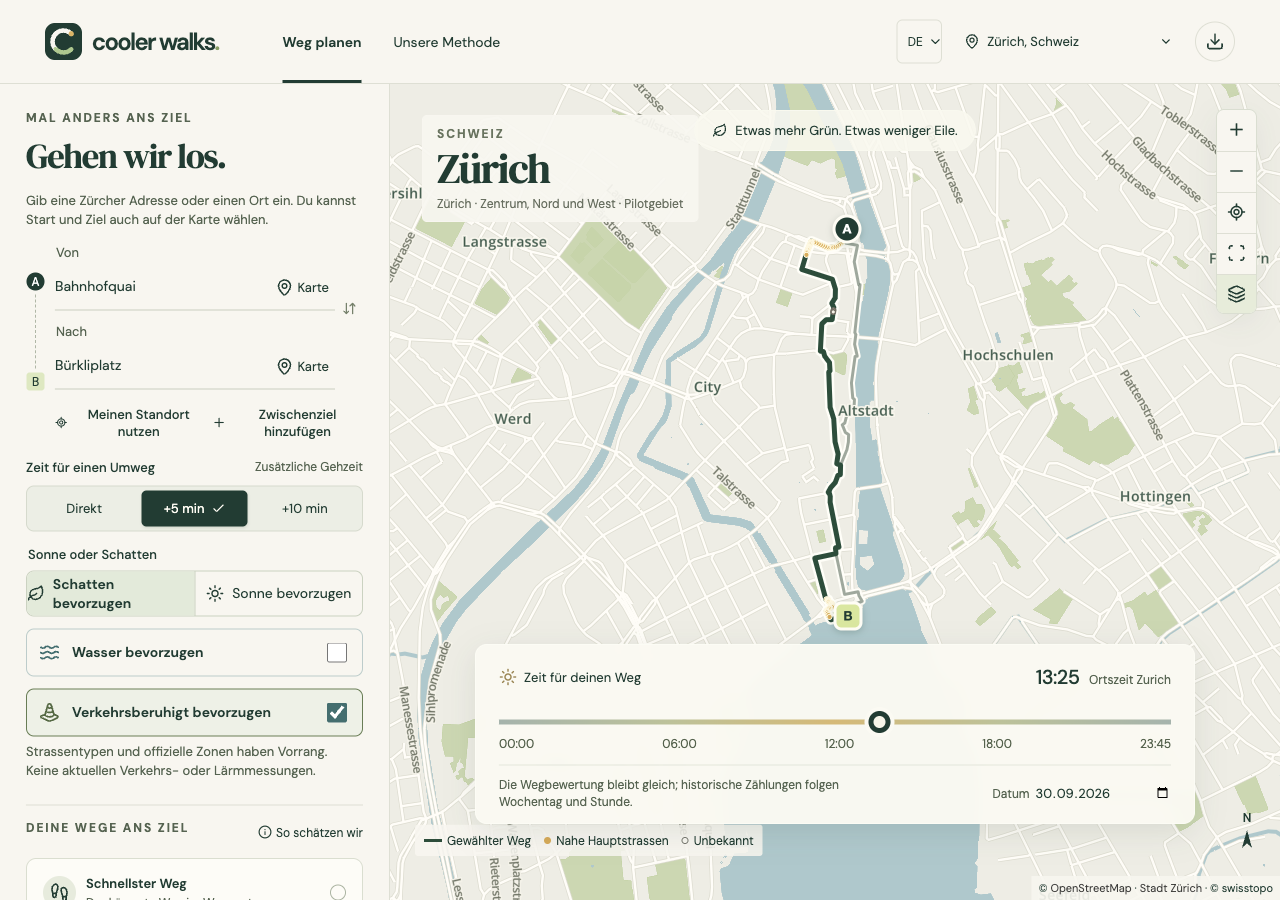
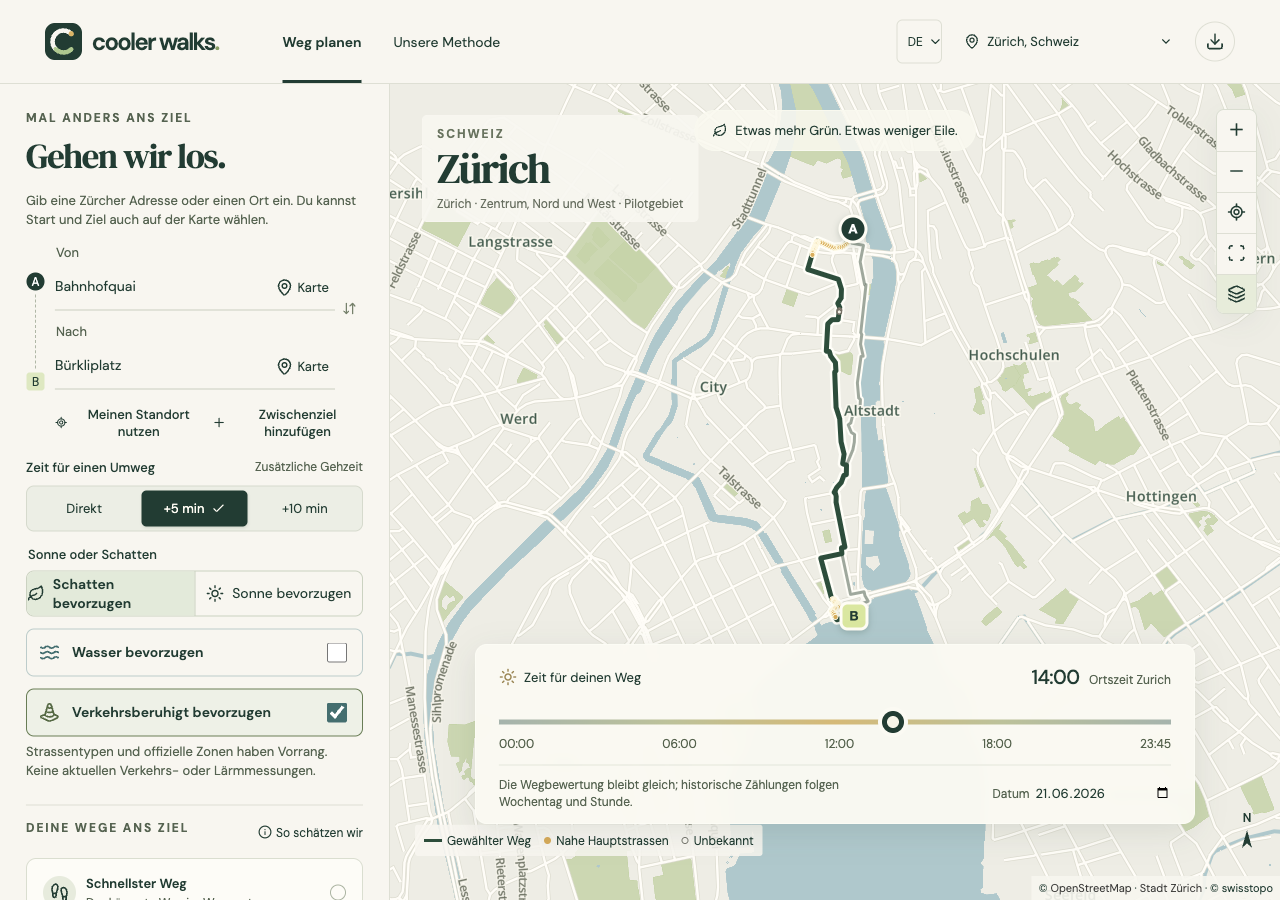
Record verified arrival-time shadow release and stable PWA reference [skip ci]

diff --git a/docs/platform.md b/docs/platform.md
@@ -142,3 +142,11 @@ The model is `flat-buildings-arrival-v6`. Type checking and 72 unit/model/langua
 Production compilation and all five existing pack hashes pass. The new browser flow verifies city-local arrival times, model explanations, German phone layout, the 20:00 low-sun transition and recovery to the 14:00 shade comparison. Actual desktop, phone and tablet captures were inspected. All 18 local browser scenarios and all four local production-page scenarios pass, including accessibility, enlarged text, security policy and offline public pages. Prior 0.8 reports are archived in `docs/releases/0.8.0-*.json`.
 
[1 lines of base64/hex data omitted]
+
+The public `2f662eb` build passes the arrival-time scenario and all four release-browser scenarios. Chrome 154.0.8037.92 installed 0.9.0 from **https://coolerwalks.ch**, launched standalone and verified arrival-aware shade, German official-address routes, historical counters, downloaded-area cold reopening, offline water/stops and recovery after an unvisited city fails offline. Manifest/installability and page errors are empty. [PWA report](pwa-validation.json). The installed address/map and final phone captures were inspected.
+
+The first PWA run expected a particular waterside/stop alternative at the current September time, when it did not qualify. Its test now fixes the June 21, 14:00 Zurich reference used by the browser route regression. The full flow passed with the same assertions and timeouts; application coverage rules were not changed.
+
+[Android APK/unsigned App Bundle](https://github.com/gumbrich/cooler-walks/actions/runs/36716054436) and [iOS simulator/unsigned archive](https://github.com/gumbrich/cooler-walks/actions/runs/36716054463) CI builds pass for published source `2f662eb`. Current iOS interactions and physical phones were not tested.
+
+The [complete Linux workflow](https://github.com/gumbrich/cooler-walks/actions/runs/36716054350) passes fresh installation, 72 unit/model/language checks, five Python source checks, all real graph/route audits including arrival-time comparisons, formatting, production compilation and all 18 browser scenarios across four isolated jobs. [CI evidence](releases/0.9.0-ci.json). The subsequent verification commit changes reports, screenshots and the PWA test reference clock only; application code remains the published `2f662eb` source.

diff --git a/docs/hosting.md b/docs/hosting.md
@@ -131,3 +131,13 @@ A release follow-up separates service-worker interface installation from visited
 The final map refinement is published from `f6e1bbef14ca50df2e8ffef5f223cfa866308a36`. City-scale rendering now keeps neighbourhoods, the street network, parks and waterways, adding buildings, trees and minor paths at street scale. Both live Zurich address/map flows pass on this exact build (53.3 seconds total); the whole-area overview settled in 1,736 ms in the tested desktop Chrome session. This is a test-machine observation, not a mobile-performance guarantee. [Final script/service-worker provenance](releases/0.8.0-final-host.json) confirms the map catalogue is unchanged.
 
 Final acceptance is complete: [all Linux checks and 17 browser scenarios](https://github.com/gumbrich/cooler-walks/actions/runs/36707730409), both native CI builds, and a fresh public-origin Chrome PWA installation/standalone/offline run pass on `f6e1bbe`. The PWA report is dated 2026-09-30T11:25:25Z with no manifest, installability or page errors. [CI evidence](releases/0.8.0-ci.json) and [platform scope](platform.md) retain exact versions and untested device limitations.
+
+## Version 0.9.0 release — 30 September 2026
+
+Published source `2f662ebc0aee94e644d42ffd301d6a809672a62f` updates building shadows to the expected arrival at each route sample, with English/German arrival labels and honest low-sun/night transitions. The deployed routing worker matches the locally tested production build byte-for-byte. [Deployment provenance](releases/0.9.0-host.json).
+
+The public route scenario passes arrival times for both alternatives, English/German phone layouts, the low-sun transition and recovery to a shade comparison. All six public pages, true 404s, security/cache headers, both manifests and every hosted pack checksum/native CORS check pass. Pack files and embedded hashes match the [0.8 catalogue](releases/0.8.0-hosted-catalog.json); the previous decompressed-source comparisons therefore remain applicable. Existing offline packs do not need a new download for this model update. Hosting, DNS and account settings are unchanged.
+
+All four live release-browser scenarios pass, including production CSP, accessibility/200% text, English/German pages without JavaScript and offline privacy navigation. Chrome installed and launched the public PWA and passed offline arrival-time shade and address planning, with no manifest, installability or page errors. Android and iOS CI packaging passed. [Platform scope](platform.md) and [PWA report](pwa-validation.json).
+
+Final acceptance includes the complete [Linux workflow with all 18 browser scenarios](https://github.com/gumbrich/cooler-walks/actions/runs/36716054350) and both native CI builds. [CI evidence](releases/0.9.0-ci.json) records the published revision. No physical-phone or field-shadow accuracy validation is implied.

diff --git a/docs/progress.md b/docs/progress.md
@@ -4,7 +4,7 @@
 
 Implemented `flat-buildings-arrival-v6`: every candidate uses solar position at each sample's expected arrival, including all legs through stops and repeated paths. The static footprint index supports changing rays without duplicating city geometry. Estimated arrival times appear in English/German. Low sun, missing geometry and night stay distinct; a detour cannot win merely by reaching darkness. Source data, traffic and city coverage are unchanged. Candidate generation still uses departure-time exposure; final filtering and ranking use each candidate's arrival-time exposure.
 
-Local validation: 72 unit/model/language checks pass, including eight new timing/geometry/DST cases. Real-route checks pass across all four pilots. The new [arrival audit](arrival-shade-validation.json) compares the same geometry at departure versus arrival. At 14:00 on 21 June, 48 m of the 1,511 m Zurich reference changes exposure class; this is a computed difference, not field validation. All 18 browser scenarios, four production-page scenarios, the production build and all five pack checksums pass locally. Android 0.9.0/build 7 passes the focused offline arrival/address/count/language/city flow on the existing 2 GB emulator, with no page errors. Public deployment, CI and installed-PWA checks are next.
+Local validation: 72 unit/model/language checks pass, including eight new timing/geometry/DST cases. Real-route checks pass across all four pilots. The new [arrival audit](arrival-shade-validation.json) compares the same geometry at departure versus arrival. At 14:00 on 21 June, 48 m of the 1,511 m Zurich reference changes exposure class; this is a computed difference, not field validation. All 18 browser scenarios, four production-page scenarios, the production build and all five pack checksums pass locally. Android 0.9.0/build 7 passes the focused offline arrival/address/count/language/city flow on the existing 2 GB emulator, with no page errors. Published to **https://coolerwalks.ch/** from `2f662eb`. The live arrival-time flow, all four live production-page scenarios and all five hosted pack checksums pass. Chrome installed the public PWA, launched standalone and verified offline arrival-time shade/address planning with no page errors. The complete [Linux workflow](https://github.com/gumbrich/cooler-walks/actions/runs/36716054350), including all 18 browser scenarios, and both Android/iOS CI builds pass. [Release evidence](releases/0.9.0-ci.json) and [platform scope](platform.md) record exact checks and limitations.
 
 ## Previous milestone: Zurich north and west · 0.8.0
 

diff --git a/docs/mobile.md b/docs/mobile.md
@@ -50,7 +50,7 @@ See [Capacitor’s environment requirements](https://capacitorjs.com/docs/gettin
 
 Shared TypeScript, routing, real-data and browser checks cover the planner. Native verification results and platform limitations are recorded in [platform.md](platform.md). Browser viewport screenshots do not count as native-device tests.
 
-Version 0.8.0/build 6 packages the 57.77 km² Zurich map and official address index. Worker-owned geometry loading, viewport tree rendering and explicit navigation cleanup address the larger model’s Android memory pressure. `npm run test:native:counts` now also verifies address search and routing offline, alongside a fixed Monday 14:00 count reference, German text and beta city-switch cleanup on the dedicated emulator. These checks pass with zero page errors; the current report is `docs/native-counts-validation.json` and the tested APK is `native-artifacts/cooler-walks-0.8.0-debug.apk` locally. Physical phones and current iOS interactions remain untested.
+Version 0.8.0/build 6 packages the 57.77 km² Zurich map and official address index. Worker-owned geometry loading, viewport tree rendering and explicit navigation cleanup address the larger model’s Android memory pressure. `npm run test:native:counts` now also verifies address search and routing offline, alongside a fixed Monday 14:00 count reference, German text and beta city-switch cleanup on the dedicated emulator. These checks pass with zero page errors; the archived report is `docs/releases/0.8.0-native-counts-validation.json` and the tested APK is `native-artifacts/cooler-walks-0.8.0-debug.apk` locally. Physical phones and current iOS interactions remain untested.
 
 The Android build workflow uploads a debug APK as a private GitHub Actions artifact (retained for 14 days). It builds `:app:assembleDebug`, not every dependency's distributable library. Local builds use the same target. This is a development-signed APK, not a signed production release.
 

diff --git a/docs/model.md b/docs/model.md
@@ -59,6 +59,6 @@ Up to **three intermediate stops** are visited in the specified order. Each stop
 
 ## Verification and remaining work
 
-Focused tests check LV95 against the official Bern origin, a Paris UTM round-trip, unit conversion, DST, Melbourne local time and solar orientation, polar night, shadow direction and length, an analytic 10 m block at 45°, courtyard openings, graph access, disconnected routes, detours and missing coverage. `docs/route-validation.json` records a real Zurich route at several times.
+Focused tests check LV95 against the official Bern origin, a Paris UTM round-trip, unit conversion, DST, Melbourne local time and solar orientation, polar night, shadow direction and length, an analytic 10 m block at 45°, courtyard openings, graph access, disconnected routes, detours and missing coverage. Arrival-specific checks use an analytic wall with a controlled changing sun, verify repeated/reversed paths through stops, arrival-dependent boundary clearance, sunrise/sunset transitions, and reject a tempting shade detour that enters darkness. Midnight and DST label checks keep route time separate from device time. `docs/route-validation.json` records a real Zurich route at several times; `docs/arrival-shade-validation.json` compares exact sample positions at departure versus arrival in Zurich and Munich.
 
 Analytic geometry checks are independent physical reference cases; they are not validation against real dated Zurich shadows. Before expanding or removing the experimental label: field-check paths, compare timestamped observations, add terrain-aware reference cases, audit tagged pedestrian restrictions and snapping near barriers, and evaluate route-side geometry. Historical geometry and source network freshness remain material limits.

diff --git a/README.md b/README.md
@@ -78,7 +78,7 @@ npm run native:open:ios      # open Xcode
 
 Detailed setup, signing boundaries and offline behaviour are in [docs/mobile.md](docs/mobile.md). Actual platform test results are in [docs/platform.md](docs/platform.md). Signing credentials and generated native build outputs are ignored.
 
-Android **0.9.0/build 7** compiled and passed offline arrival-time shade, address-search/routing, vehicle-count, German and beta city-switch checks in an Android 16 emulator. Its debug APK is available locally as `native-artifacts/cooler-walks-0.9.0-debug.apk`. The earlier 0.5.0 build passed twelve broader checks covering native permissions, Back/resume, all four cities offline and cold launch. iOS 0.8.0 compiles in GitHub Actions; the previous 0.5.0 build launched in English and German on the local iPhone 16e simulator. iOS count interactions and physical phones remain untested; neither app has been submitted to a store.
+Android **0.9.0/build 7** compiled and passed offline arrival-time shade, address-search/routing, vehicle-count, German and beta city-switch checks in an Android 16 emulator. Its debug APK is available locally as `native-artifacts/cooler-walks-0.9.0-debug.apk`. The earlier 0.5.0 build passed twelve broader checks covering native permissions, Back/resume, all four cities offline and cold launch. iOS 0.9.0 compiles in GitHub Actions; the previous 0.5.0 build launched in English and German on the local iPhone 16e simulator. iOS count interactions and physical phones remain untested; neither app has been submitted to a store.
 
 ## Develop and verify
 
